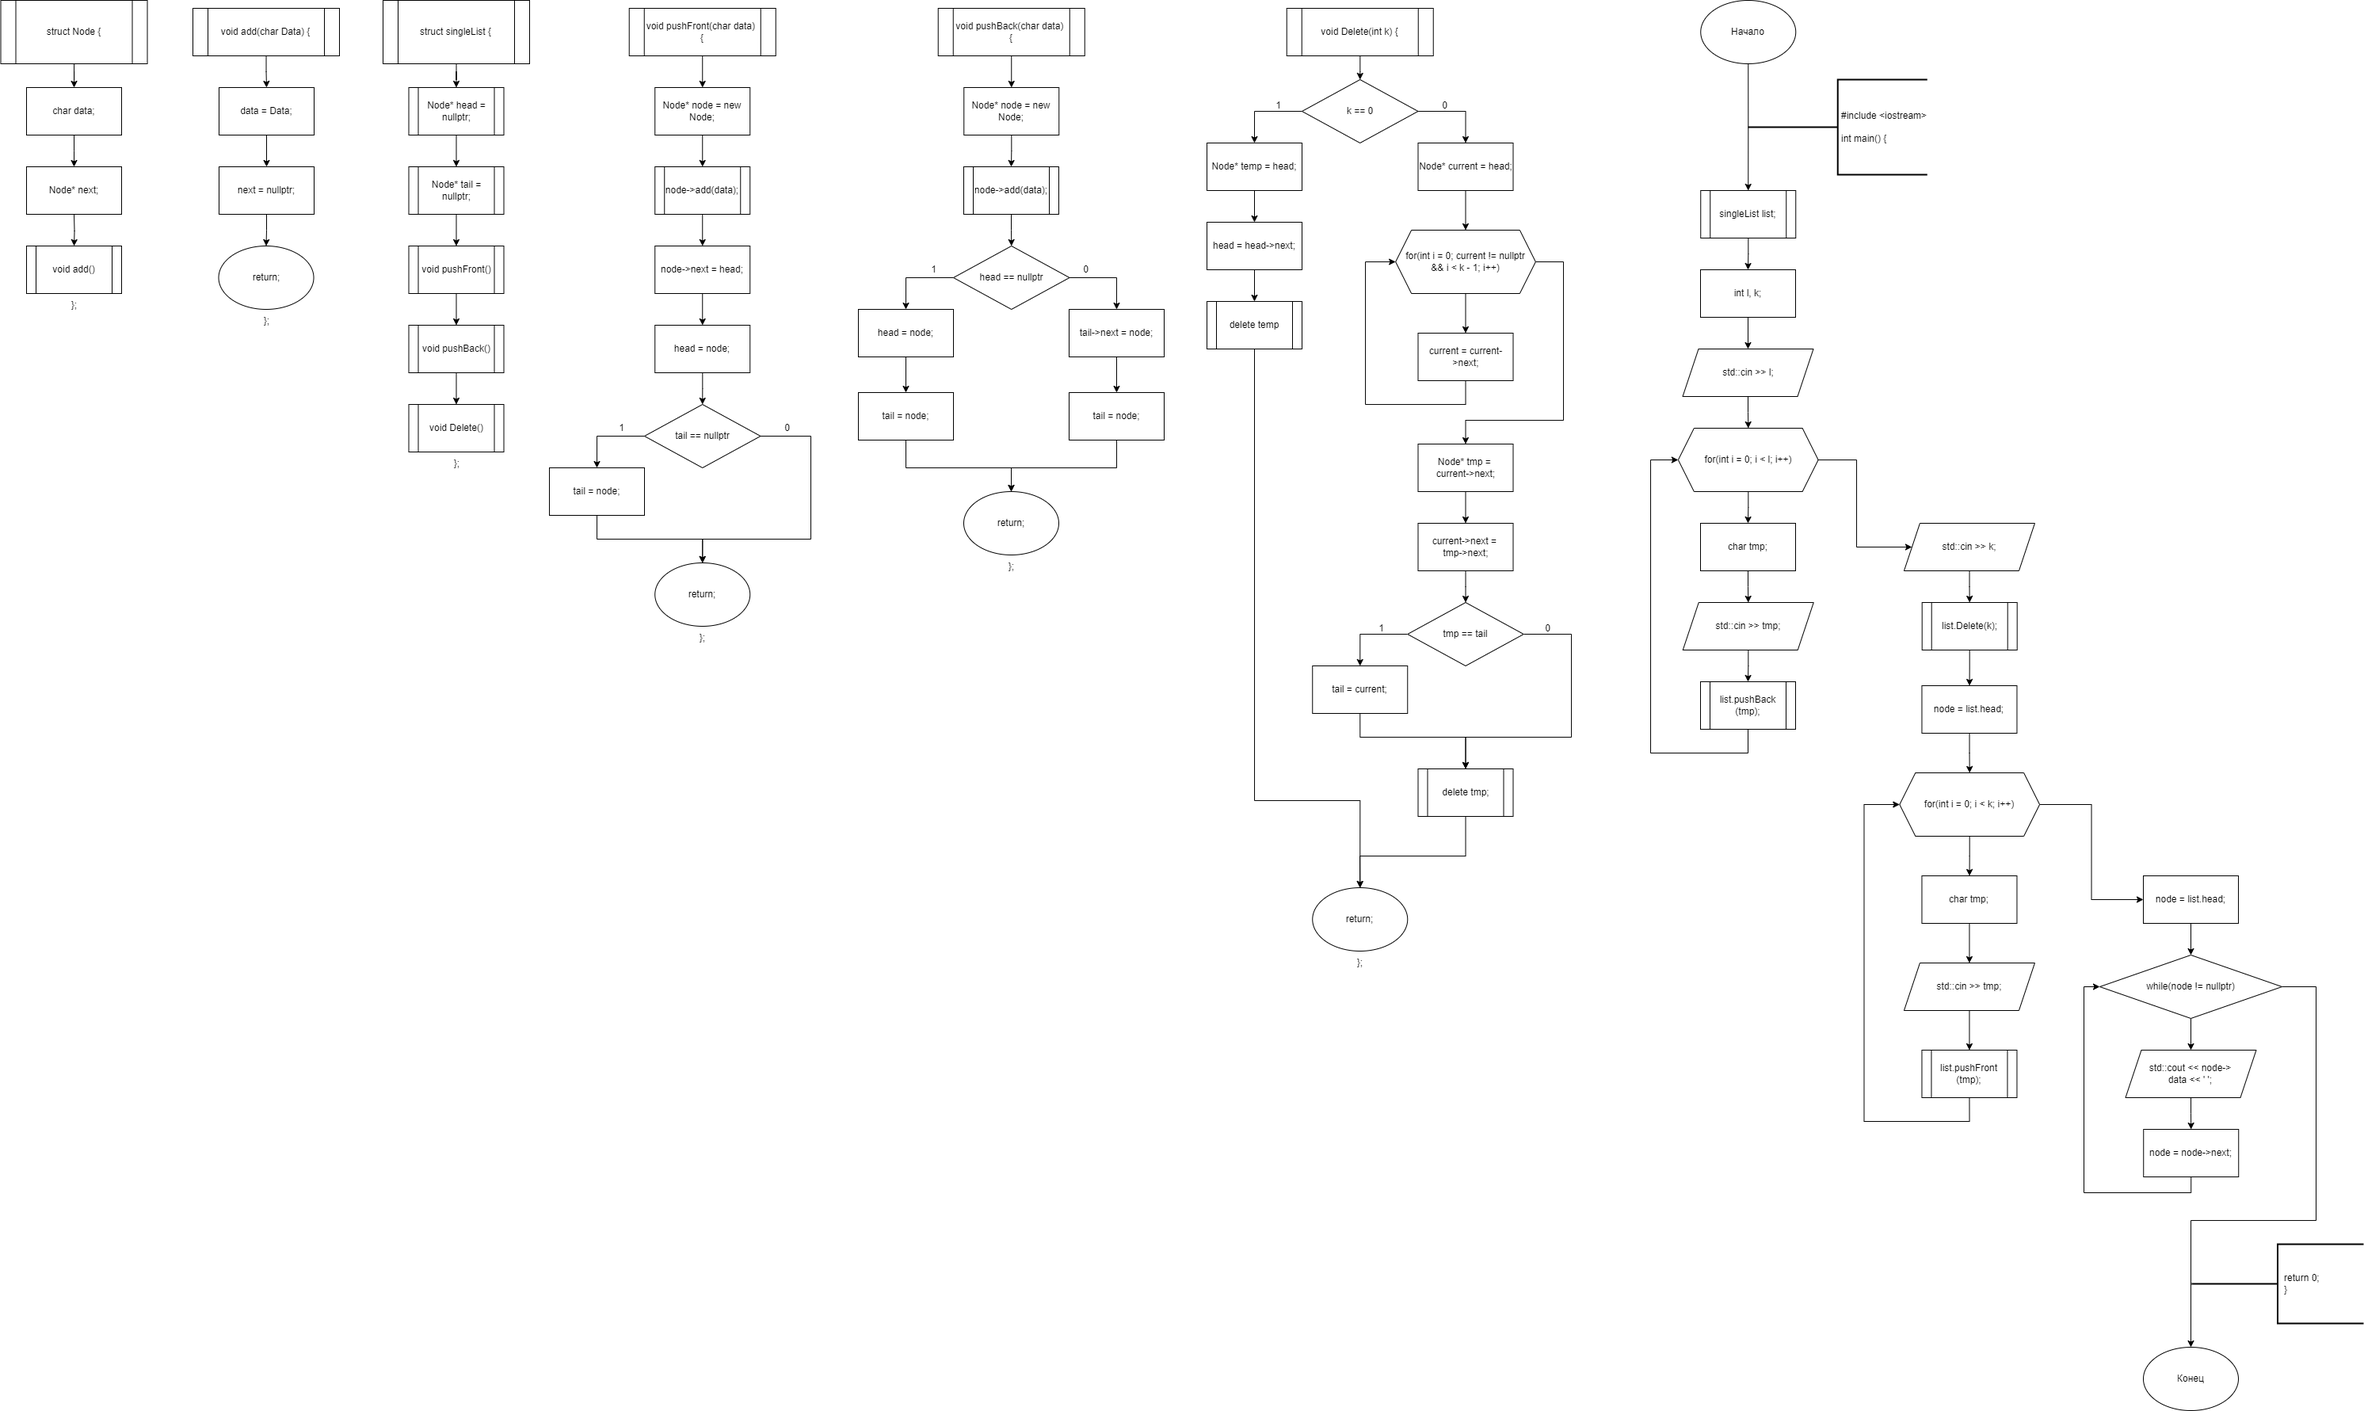
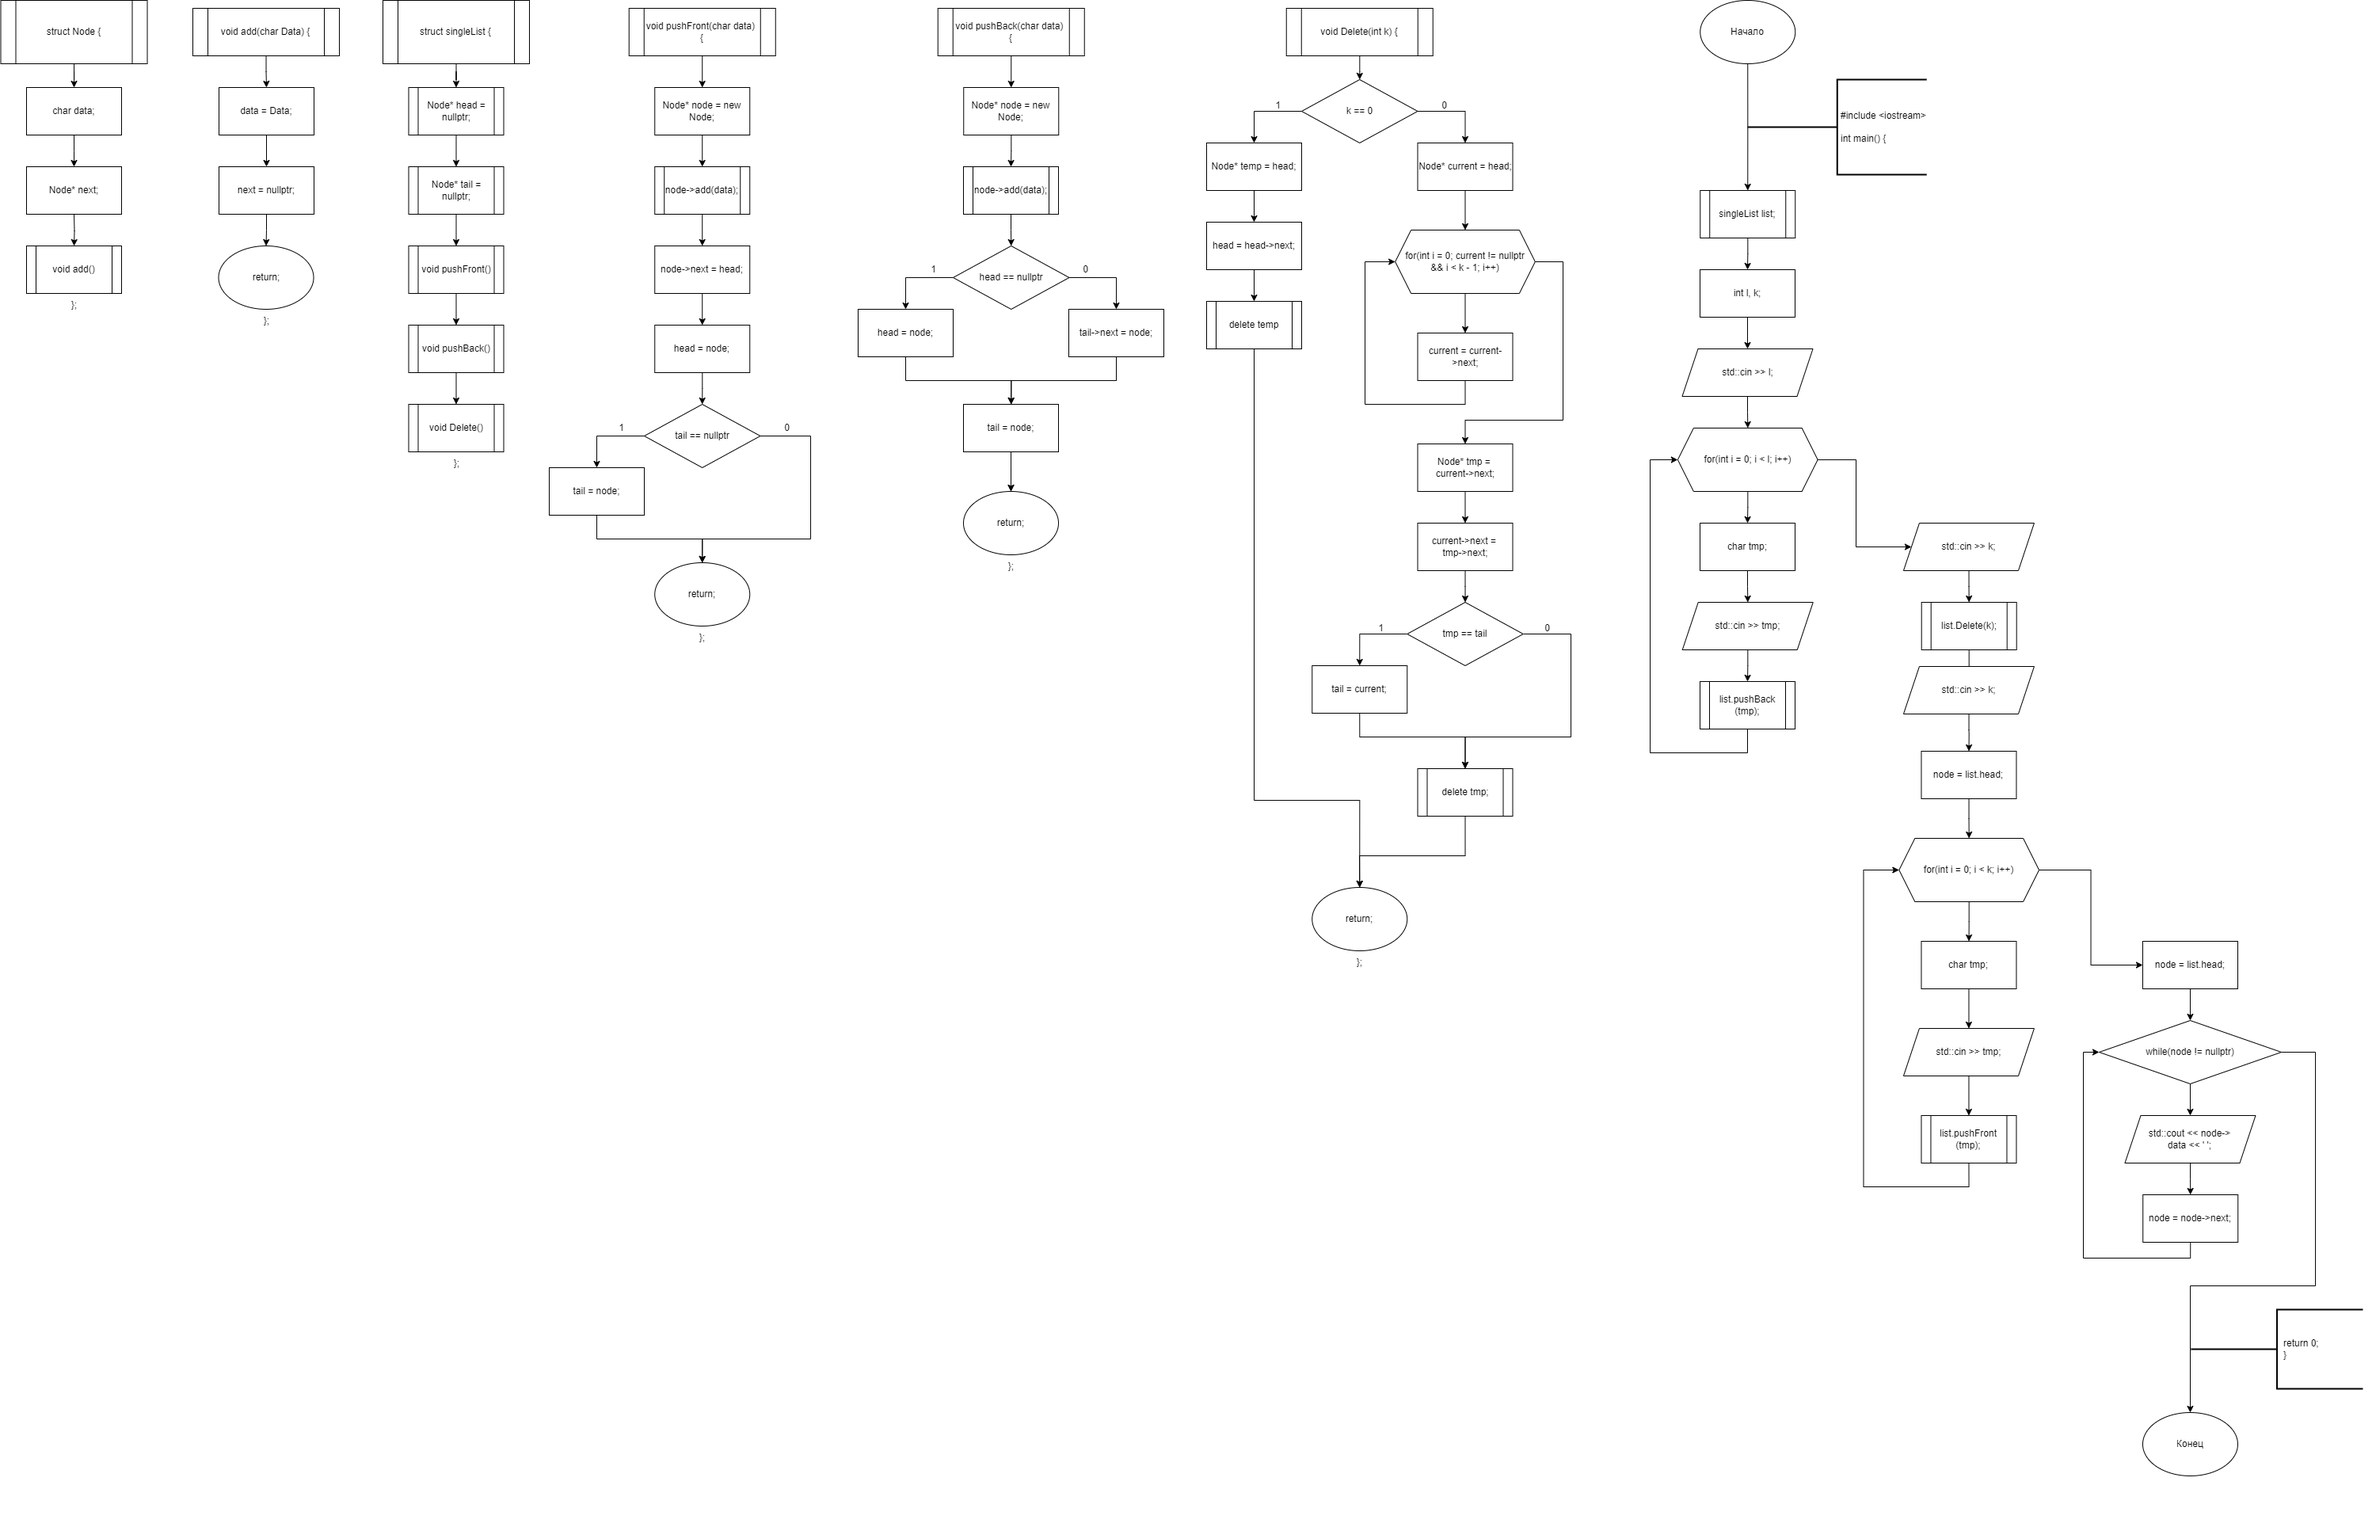
02.04

diff --git a/2nd semester/lab 11.1/lab 11.1.cpp b/2nd semester/lab 11.1/lab 11.1.cpp
@@ -40,12 +40,11 @@ struct singleList {
 		node->add(data);
 		if (head == nullptr) {
 			head = node;
-			tail = node;
 		}
 		else {
 			tail->next = node;
-			tail = node;
 		}
+		tail = node;
 	}
 
 	void Delete(int k) {
